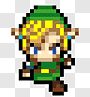
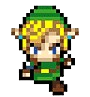
correct adlez

diff --git a/it_expert_II_samedi/prof/Adlez/main.py b/it_expert_II_samedi/prof/Adlez/main.py
@@ -1,14 +1,55 @@
+import math
 import pygame
 from sys import exit
-
 from animation import Animation
+
+
+
+class Entity:
+    def __init__(self, pos, angle, speed):
+        self.pos = list(pos)
+        self.angle = angle
+        self.speed = speed
+
+    def move(self, dt, angle=None):
+        self.pos[0] += math.cos(angle if angle else self.angle)*dt*self.speed
+        self.pos[1] -= math.sin(angle if angle else self.angle)*dt*self.speed 
+
+class Player(Entity):
+    def __init__(self):
+        super().__init__([600, 350], 0, 200)
+        self.animations = [
+            Animation("walk/walk_right", 10, 12),
+            Animation("walk/walk_back", 10, 12),
+            Animation("walk/walk_left", 10, 12),
+            Animation("walk/front_walk", 10, 12),
+            Animation("idle/idle_right", 3, 3),
+            Animation("idle/idle_back", 1, 3),
+            Animation("idle/idle_left", 3, 3),
+            Animation("idle/idle_front", 3, 3),
+        ]
+        self.currentAnim = -1
+        self.animations[self.currentAnim].start()
+    def move(self, dt, angle):
+        anim = round(angle/math.pi*2)%4
+        if self.currentAnim != anim:
+            self.currentAnim = anim
+            self.animations[self.currentAnim].start()
+        super().move(dt, angle)
+    def stop_moving(self):
+        if 0 <= self.currentAnim < 4:
+            self.animations[self.currentAnim].stop()
+            self.currentAnim += 4
+            self.animations[self.currentAnim].start()
+    def draw(self, surface):
+        self.animations[self.currentAnim].update()
+        self.animations[self.currentAnim].draw(surface, self.pos)
 
 pygame.init()
 screen = pygame.display.set_mode((1200, 700))
 clock = pygame.time.Clock()
 
-animation1 = Animation("assets/images/walk/front_walk", 10, 5)
-animation1.start()
+player = Player()
 
 while True:
     dt = clock.tick(60)/1000
@@ -17,8 +58,18 @@ while True:
             pygame.quit()
             exit()
 
-    animation1.update()
+    pressed = pygame.key.get_pressed()
+    if pressed[pygame.K_z]:
+        player.move(dt, math.pi/2)
+    elif pressed[pygame.K_s]:
+        player.move(dt, -math.pi/2)
+    elif pressed[pygame.K_q]:
+        player.move(dt, math.pi)
+    elif pressed[pygame.K_d]:
+        player.move(dt, 0)
+    else:
+        player.stop_moving()
 
     screen.fill((10, 10, 30))
-    animation1.draw(screen, (600, 350))
+    player.draw(screen)
     pygame.display.update()

diff --git a/it_expert_II_samedi/prof/Adlez/animation.py b/it_expert_II_samedi/prof/Adlez/animation.py
@@ -8,7 +8,7 @@ class Animation:
         self.fps = fps
         self.start_time = None
         self.current = 0
-        self.images = [pygame.image.load(path+str(i)+".png") for i in range(nb)]
+        self.images = [pygame.image.load("assets/images/"+path+str(i)+".png") for i in range(nb)]
 
     def start(self):
         self.start_time = time()
@@ -22,7 +22,7 @@ class Animation:
     def update(self):
         if self.start_time == None:
             return
-        self.current = int((time()-self.start_time)/self.fps)%self.nb
+        self.current = int((time()-self.start_time)*self.fps)%self.nb
     
     def draw(self, screen, pos):
-        screen.blit(self.images[self.current], pos)
+        screen.blit(self.images[self.current], self.images[self.current].get_rect(center=pos))
